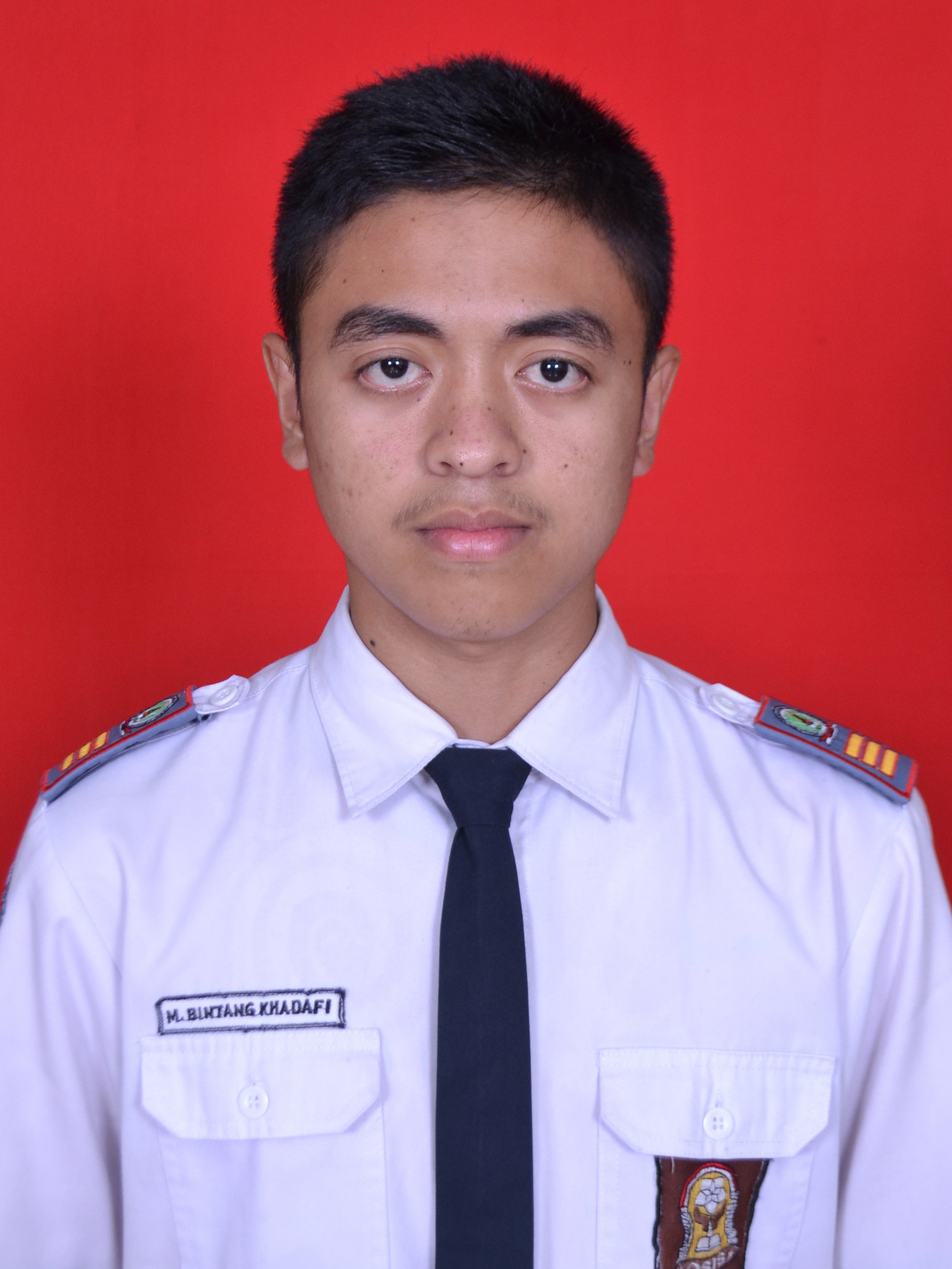
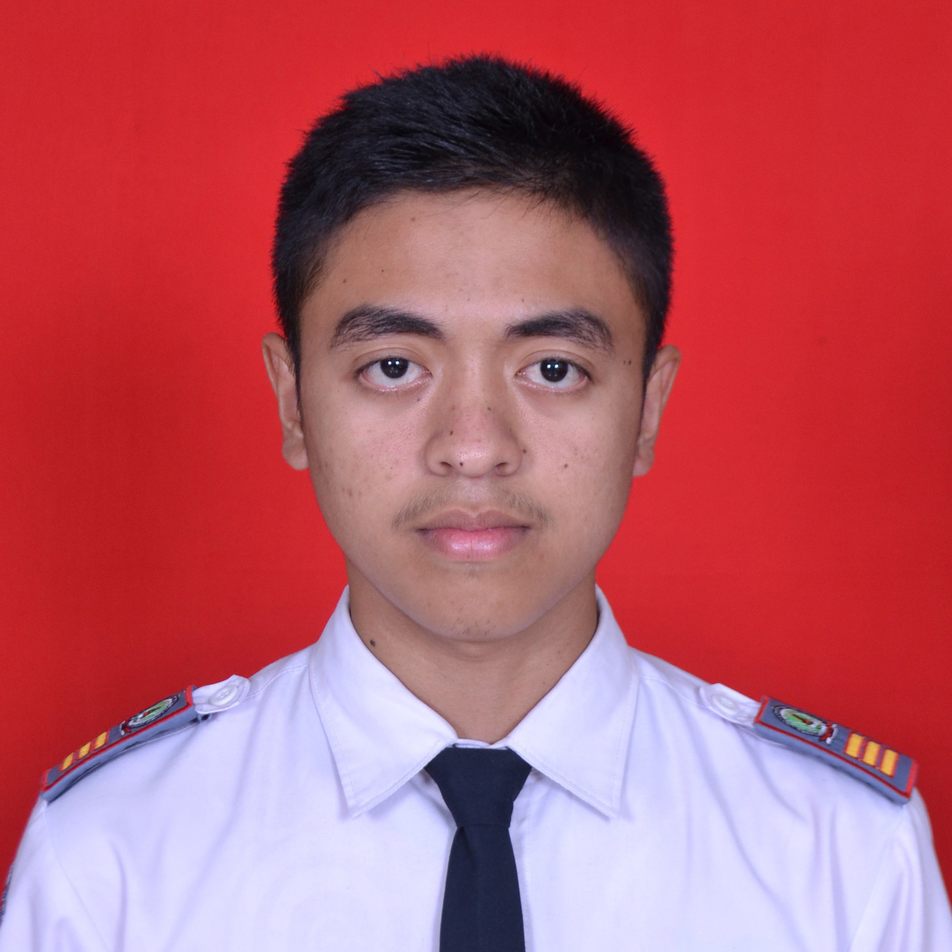
Resize foto

diff --git a/resources/views/about.blade.php b/resources/views/about.blade.php
@@ -4,5 +4,5 @@
     <h1>Halaman About</h1>
     <h3>{{ $name }}</h3>
     <p>{{ $desc }}</p>
-    <img src="img/{{ $image }}" alt="Foto {{ $name }}" width="250">
+    <img src="img/{{ $image }}" alt="Foto {{ $name }}" width="250" class="img-thumbnail rounded-circle">
 @endsection
